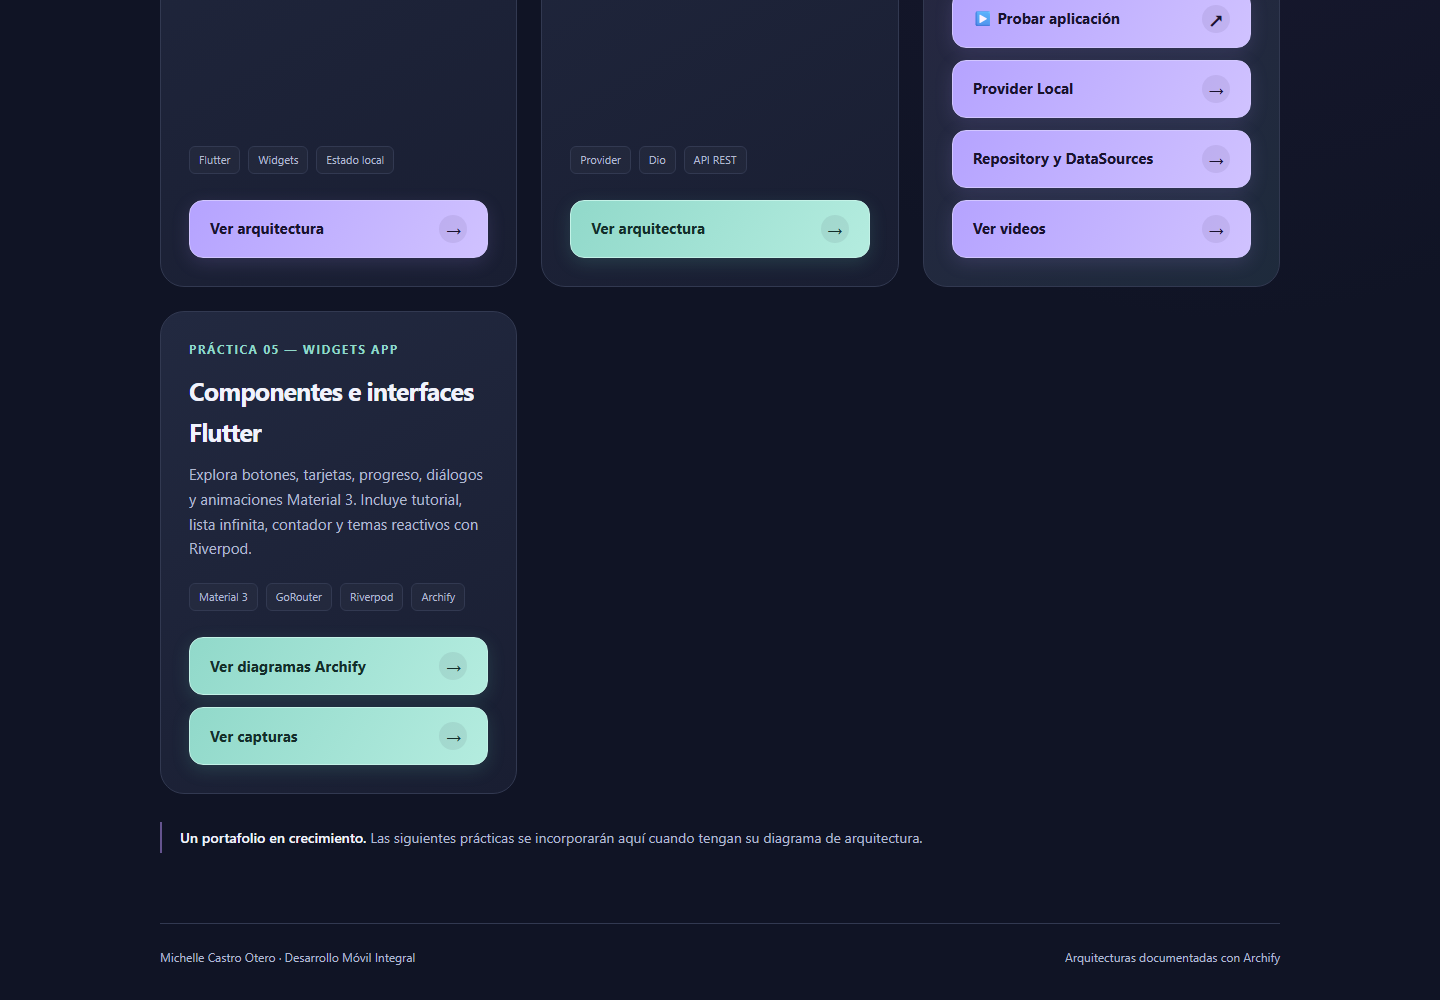
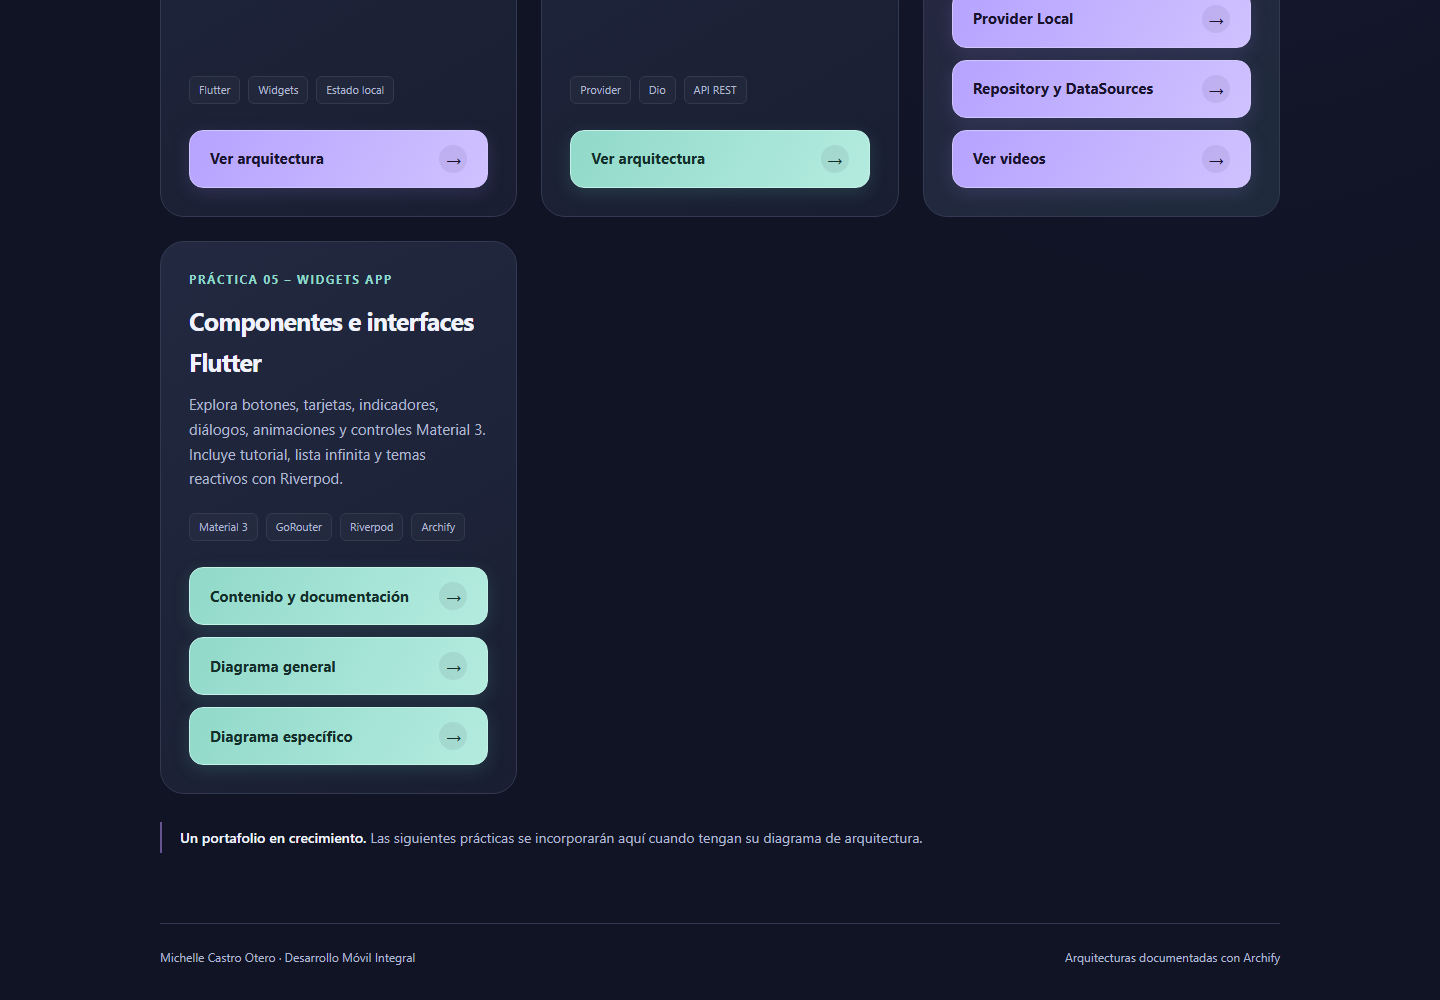
cambios

diff --git a/index.html b/index.html
@@ -52,6 +52,19 @@
               </div>
             </div>
           </article>
+          <article class="card teal">
+            <div class="content">
+              <span class="number">Práctica 05 – Widgets App</span>
+              <h3>Componentes e interfaces Flutter</h3>
+              <p class="description">Explora botones, tarjetas, indicadores, diálogos, animaciones y controles Material 3. Incluye tutorial, lista infinita y temas reactivos con Riverpod.</p>
+              <div class="tags"><span>Material 3</span><span>GoRouter</span><span>Riverpod</span><span>Archify</span></div>
+              <div class="actions">
+                <a class="button" href="Practica05/widgets_app/docs/index.html" aria-label="Ver contenido y documentación de Práctica 05">Contenido y documentación <span class="arrow" aria-hidden="true">→</span></a>
+                <a class="button" href="Practica05/widgets_app/docs/diagrams/general.html" aria-label="Ver diagrama general de Práctica 05 en Archify">Diagrama general <span class="arrow" aria-hidden="true">→</span></a>
+                <a class="button" href="Practica05/widgets_app/docs/diagrams/especifica.html" aria-label="Ver diagrama específico de Práctica 05 en Archify">Diagrama específico <span class="arrow" aria-hidden="true">→</span></a>
+              </div>
+            </div>
+          </article>
         </div>
         <p class="note"><strong>Un portafolio en crecimiento.</strong> Las siguientes prácticas se incorporarán aquí cuando tengan su diagrama de arquitectura.</p>
       </section>

diff --git a/Practica05/widgets_app/docs/index.html b/Practica05/widgets_app/docs/index.html
@@ -11,7 +11,7 @@
 </style>
 </head>
 <body>
-<header><a href="../../../index.html">← Menú de prácticas</a><a href="https://github.com/Ktmich2095/Practicas_DMI_230881/tree/Practica05/Practica05">Código y README en GitHub ↗</a></header>
+<header><a href="../../../index.html">← Menú de prácticas</a><a href="https://github.com/Ktmich2095/Practicas_DMI_230881/tree/main/Practica05">Código y README en GitHub ↗</a></header>
 <main>
 <section class="hero"><div class="eyebrow">Desarrollo Móvil Integral · Práctica 05</div><h1>Widgets App.<br><span>Explora cada componente.</span></h1><p>Once pantallas para descubrir componentes visuales, navegación declarativa y estado reactivo. Aquí puedes explorar su arquitectura y ver capturas reales de la aplicación actual.</p><div class="tags"><span>Flutter y Dart</span><span>Material Design 3</span><span>GoRouter</span><span>Riverpod</span><span>Archify</span></div></section>
 <section id="arquitectura"><h2>Abre los diagramas con Archify</h2><p>Los enlaces abren el visor interactivo generado por Archify. Las imágenes son vistas previas; para explorar y exportar, abre el diagrama.</p>

diff --git a/Practica05/widgets_app/tool/build_capture_portal.py b/Practica05/widgets_app/tool/build_capture_portal.py
@@ -30,7 +30,7 @@ html = '''<!doctype html>
 </style>
 </head>
 <body>
-<header><a href="../../../index.html">← Menú de prácticas</a><a href="https://github.com/Ktmich2095/Practicas_DMI_230881/tree/Practica05/Practica05">Código y README en GitHub ↗</a></header>
+<header><a href="../../../index.html">← Menú de prácticas</a><a href="https://github.com/Ktmich2095/Practicas_DMI_230881/tree/main/Practica05">Código y README en GitHub ↗</a></header>
 <main>
 <section class="hero"><div class="eyebrow">Desarrollo Móvil Integral · Práctica 05</div><h1>Widgets App.<br><span>Explora cada componente.</span></h1><p>Once pantallas para descubrir componentes visuales, navegación declarativa y estado reactivo. Aquí puedes explorar su arquitectura y ver capturas reales de la aplicación actual.</p><div class="tags"><span>Flutter y Dart</span><span>Material Design 3</span><span>GoRouter</span><span>Riverpod</span><span>Archify</span></div></section>
 <section id="arquitectura"><h2>Abre los diagramas con Archify</h2><p>Los enlaces abren el visor interactivo generado por Archify. Las imágenes son vistas previas; para explorar y exportar, abre el diagrama.</p>

diff --git a/Practica05/widgets_app/README.md b/Practica05/widgets_app/README.md
@@ -1,6 +1,6 @@
 # Widgets App · Práctica 05
 
-Aplicación académica de Desarrollo Móvil Integral para explorar componentes de Material Design 3, navegación declarativa con GoRouter y estado reactivo con Riverpod. Se conserva y completa el proyecto existente en la rama `Practica05`.
+Aplicación académica de Desarrollo Móvil Integral para explorar componentes de Material Design 3, navegación declarativa con GoRouter y estado reactivo con Riverpod. Proyecto integrado en la rama `main`.
 
 Objetivo: demostrar widgets visuales e interactivos en once pantallas con temas personalizables, tutorial y galería con carga progresiva.
 
@@ -28,7 +28,7 @@ Se conserva `presentation/` como contenedor de screens, providers y widgets. GoR
 
 ## Instalación y ejecución
 
-Clonar el [repositorio GitHub](https://github.com/Ktmich2095/Practicas_DMI_230881.git), seleccionar la rama `Practica05` y entrar en `Practica05/widgets_app`:
+Clonar el [repositorio GitHub](https://github.com/Ktmich2095/Practicas_DMI_230881.git), seleccionar la rama `main` y entrar en `Practica05/widgets_app`:
 
 ```powershell
 flutter pub get
@@ -75,13 +75,15 @@ El inicio y el drawer usan `context.push`; el tutorial utiliza `context.pop` cua
 
 ## Diagramas Archify
 
-- [Portal listo para publicación](docs/index.html).
-- [Diagrama general](docs/diagrams/general.html).
-- [Diagrama específico](docs/diagrams/especifica.html).
+- [Portal de Práctica 05 en GitHub Pages](https://ktmich2095.github.io/Practicas_DMI_230881/Practica05/widgets_app/docs/index.html).
+- [Diagrama general · visor Archify](https://ktmich2095.github.io/Practicas_DMI_230881/Practica05/widgets_app/docs/diagrams/general.html).
+- [Diagrama específico · visor Archify](https://ktmich2095.github.io/Practicas_DMI_230881/Practica05/widgets_app/docs/diagrams/especifica.html).
+
+Los enlaces abren los diagramas interactivos en Pages, incluso al consultar este README desde GitHub. El catálogo utiliza rutas relativas; estos enlaces del README utilizan URLs completas para evitar que GitHub muestre el código HTML. Pages se publica desde `main`, carpeta raíz. Los destinos se verificaron localmente; si el sitio público devuelve 404, comprobar el despliegue después de publicar los cambios. No se realizaron commits ni push.
 
 
 ### Vistas previas de Archify
 
-[![Arquitectura general](docs/evidence/screenshots/archify-general/general.visual-check.1440x900.light.png)](docs/diagrams/general.html)
+[![Arquitectura general](docs/evidence/screenshots/archify-general/general.visual-check.1440x900.light.png)](https://ktmich2095.github.io/Practicas_DMI_230881/Practica05/widgets_app/docs/diagrams/general.html)
 
-[![Pantallas y dependencias](docs/evidence/screenshots/archify-especifica/especifica.visual-check.1440x900.dark.png)](docs/diagrams/especifica.html)
+[![Pantallas y dependencias](docs/evidence/screenshots/archify-especifica/especifica.visual-check.1440x900.dark.png)](https://ktmich2095.github.io/Practicas_DMI_230881/Practica05/widgets_app/docs/diagrams/especifica.html)

diff --git a/Practica05/README.md b/Practica05/README.md
@@ -1,0 +1,13 @@
+# Práctica 05 – Widgets App
+
+Aplicación Flutter para explorar componentes Material Design 3, navegación con GoRouter y estado reactivo con Riverpod.
+
+- [Documentación completa, instalación y capturas](widgets_app/README.md).
+- [Portal de Práctica 05 en GitHub Pages](https://ktmich2095.github.io/Practicas_DMI_230881/Practica05/widgets_app/docs/index.html).
+- [Diagrama general interactivo · Archify](https://ktmich2095.github.io/Practicas_DMI_230881/Practica05/widgets_app/docs/diagrams/general.html).
+- [Diagrama específico interactivo · Archify](https://ktmich2095.github.io/Practicas_DMI_230881/Practica05/widgets_app/docs/diagrams/especifica.html).
+- [Catálogo de prácticas publicado](https://ktmich2095.github.io/Practicas_DMI_230881/).
+
+Los enlaces de arquitectura abren el visor Archify en Pages, con zoom, temas y exportación; no apuntan al código HTML de GitHub. El sitio se publica desde la rama `main`, carpeta raíz. Las rutas internas del catálogo son relativas para conservar el prefijo `/Practicas_DMI_230881/`. En este README las URLs de los diagramas son completas para abrir Pages también al leerlo desde GitHub.
+
+Los destinos están preparados y verificados localmente. Si devuelven 404 en el sitio público, comprobar el despliegue de GitHub Pages después de publicar los cambios de main. No se realizaron commits ni push como parte de esta corrección.

diff --git a/README.md b/README.md
@@ -30,6 +30,7 @@ Durante las prácticas se trabajará con diferentes conceptos y herramientas par
 | 2 | Mi Primera Aplicación Móvil con Flutter | Codificar una aplicación móvil utilizando Flutter y manejando `StatelessWidget` y `StatefulWidget`. | 25 firmas | ✅ Concluida | [Ver práctica](Practica02/hello_world_app/README.md) |
 | 3 | Chat de respuestas Sí/No | Desarrollar una aplicación de chat que consulte una API y muestre respuestas automáticas con GIF. | 30 firmas | ✅ Concluida | [Ver práctica](Practica03/yes_no_app/README.md) |
 | 4 | TokTik | Videos verticales con arquitectura CLEAN, APIs, favoritos y temas de temporada. | 30 Firmas | ✅ Concluida | [Ver práctica](Practica04/toktik/README.md) |
+| 5 | Widgets App | Catálogo de componentes Material 3, navegación con GoRouter, contador y temas con Riverpod, tutorial y lista infinita. | — | Implementada; validación móvil pendiente | [Ver práctica](Practica05/widgets_app/README.md) · [Diagramas en Pages](https://ktmich2095.github.io/Practicas_DMI_230881/Practica05/widgets_app/docs/index.html) |
 | — | Manual de instalación de Flutter | Guía para instalar y configurar el entorno de desarrollo Flutter para Android. | — | ✅ Concluida | [Ver manual](ManualFlutter/README.md) |
 
 ---
